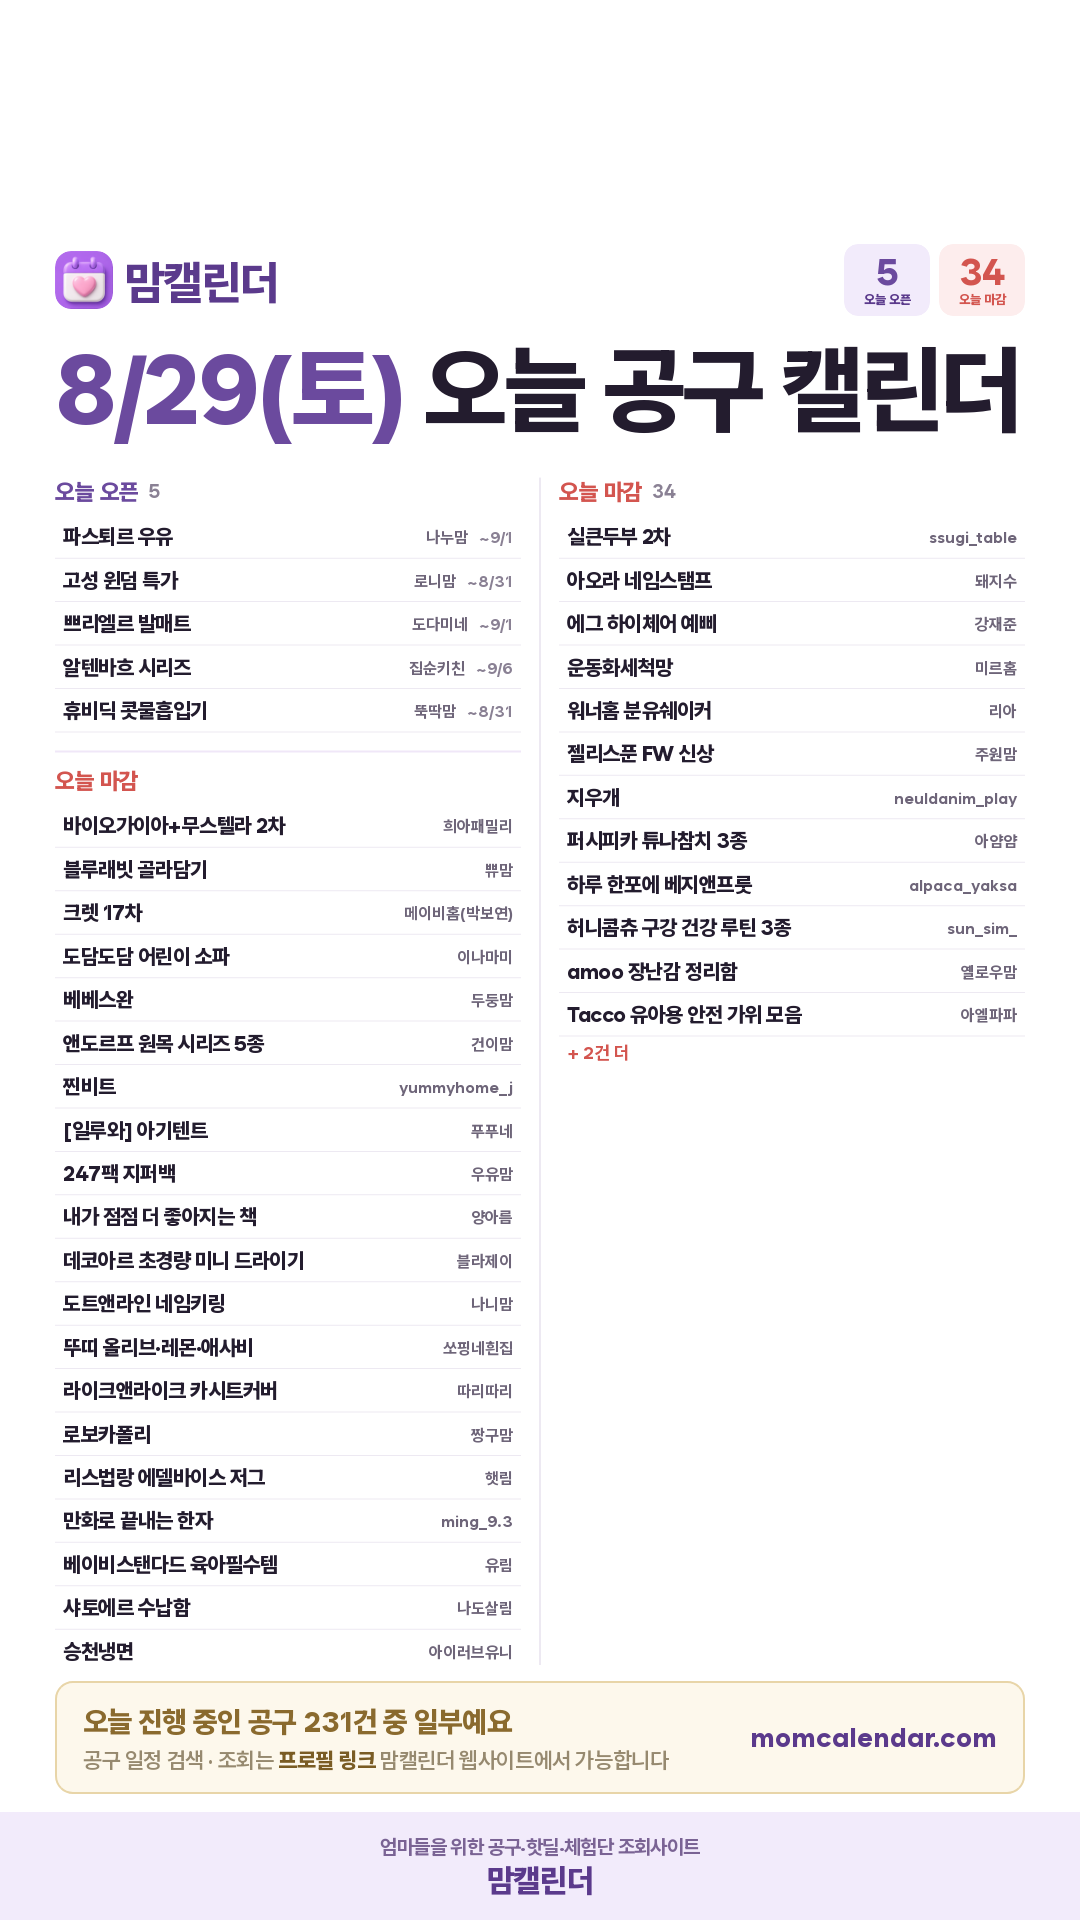
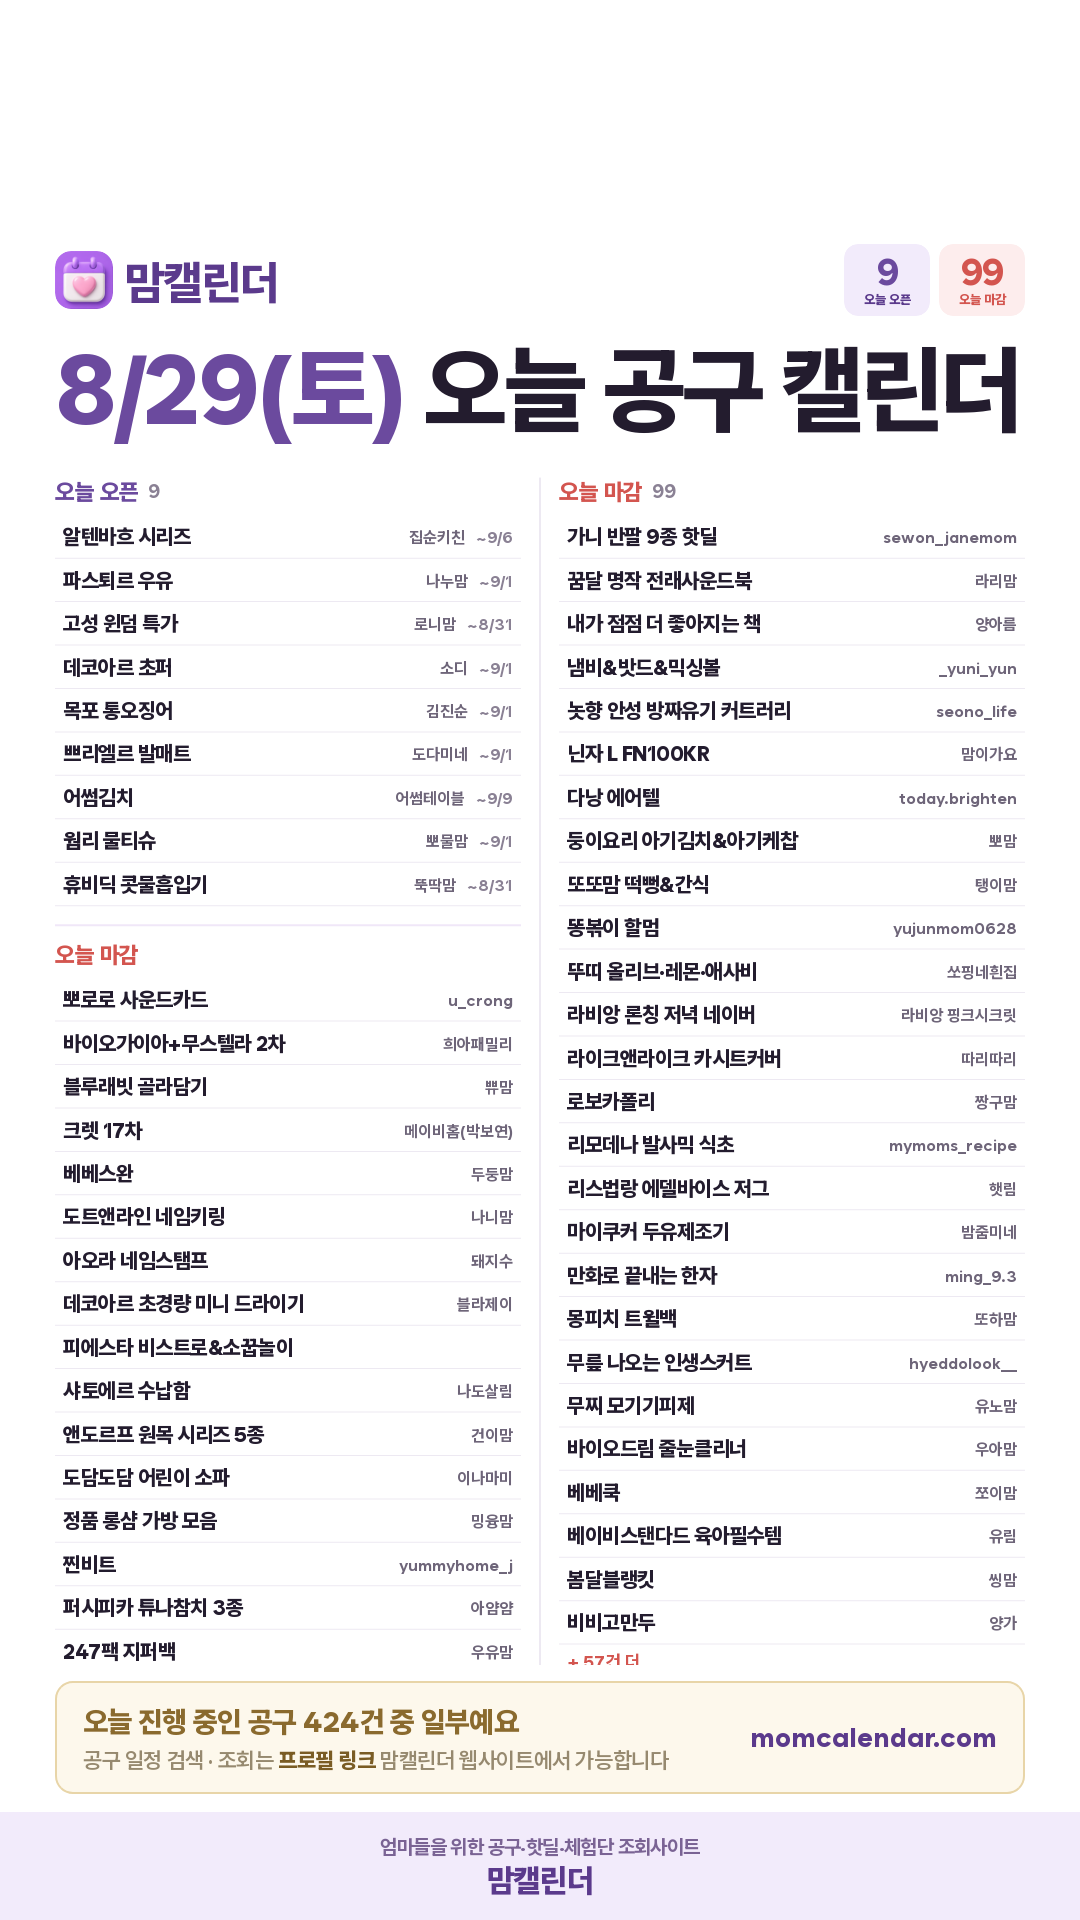
아침 인스타 카드 (2026-08-28)

diff --git a/daily/2026-08-29.html b/daily/2026-08-29.html
@@ -19,7 +19,7 @@ textarea{width:100%;height:260px;border:1px solid #E3DCEF;border-radius:10px;pad
 .todo p{font-size:12.5px;color:#6B6379;line-height:1.75;margin-top:6px}
 .todo a{color:#5B2E8C;font-weight:700}
 </style></head><body>
-<div class="hd"><div class="wrap"><h1>8월 29일(토) 인스타 카드</h1><p>오픈 5건 · 마감 34건</p></div></div>
+<div class="hd"><div class="wrap"><h1>8월 29일(토) 인스타 카드</h1><p>오픈 9건 · 마감 99건</p></div></div>
 <div class="wrap">
   
   <div class="card"><img src="./2026-08-29.png" alt="오늘 공구 카드"></div>
@@ -30,50 +30,95 @@ textarea{width:100%;height:260px;border:1px solid #E3DCEF;border-radius:10px;pad
 맘캘린더에서 공유드리는
 8월 29일(토) 오늘 공구 캘린더
 
-오픈 5건 · 마감 32건
+오픈 9건 · 마감 82건
 
 ━━━━━━━━━━━━━━
 
 🔓 오늘 오픈하는 공구
+· 알텐바흐 시리즈 — 집순키친 (~9/6)
 · 파스퇴르 우유 — 나누맘 (~9/1)
 · 고성 윈덤 특가 — 로니맘 (~8/31)
+· 데코아르 초퍼 — 소디 (~9/1)
+· 목포 통오징어 — 김진순 (~9/1)
 · 쁘리엘르 발매트 — 도다미네 (~9/1)
-· 알텐바흐 시리즈 — 집순키친 (~9/6)
+· 어썸김치 — 어썸테이블 (~9/9)
+· 웜리 물티슈 — 뽀물맘 (~9/1)
 · 휴비딕 콧물흡입기 — 뚝딱맘 (~8/31)
 
 ⏰ 오늘 마감하는 공구
+· 뽀로로 사운드카드 — u_crong
 · 바이오가이아+무스텔라 2차 — 희아패밀리
 · 블루래빗 골라담기 — 쀼맘
 · 크렛 17차 — 메이비홈(박보연)
-· 도담도담 어린이 소파 — 이나마미
 · 베베스완 — 두둥맘
-· 앤도르프 원목 시리즈 5종 — 건이맘
-· 찐비트 — yummyhome_j
-· [일루와] 아기텐트 — 푸푸네
-· 247팩 지퍼백 — 우유맘
-· 내가 점점 더 좋아지는 책 — 양아름
-· 데코아르 초경량 미니 드라이기 — 블라제이
 · 도트앤라인 네임스티커·의류네임스티커·네임키링 — 나니맘
+· 아오라 네임스탬프 — 돼지수
+· 데코아르 초경량 미니 드라이기 — 블라제이
+· 피에스타 우드 주방놀이 비스트로&amp;소꿉놀이 — 
+· 샤토에르 수납함 — 나도살림
+· 앤도르프 원목 시리즈 5종 — 건이맘
+· 도담도담 어린이 소파 — 이나마미
+· 정품 롱샴 가방 모음 — 밍융맘
+· 찐비트 — yummyhome_j
+· 퍼시피카 튜나참치 3종 — 아얌얌
+· 247팩 지퍼백 — 우유맘
+· 가니 반팔 9종 핫딜 — sewon_janemom
+· 꿈달 명작 전래사운드북 — 라리맘
+· 내가 점점 더 좋아지는 책 — 양아름
+· 냄비&amp;밧드&amp;믹싱볼 — _yuni_yun
+· 놋향 안성 방짜유기 커트러리 — seono_life
+· 닌자 크리스피 에어프라이어 L FN100KR (용기 사은품) — 맘이가요
+· 다낭 에어텔 — today.brighten
+· 둥이요리 아기김치&amp;아기케찹 — 뽀맘
+· 또또맘 떡뻥&amp;간식 — 탱이맘
+· 똥볶이 할멈 — yujunmom0628
 · 뚜띠 올리브·레몬·애사비 — 쏘핑네흰집
+· 라비앙 아이크림 론칭 저녁 네이버 — 라비앙 핑크시크릿
 · 라이크앤라이크 카시트커버 — 따리따리
 · 로보카폴리 — 짱구맘
+· 리모데나 프리미엄 발사믹 식초 — mymoms_recipe
 · 리스법랑 에델바이스 저그 — 햇림
+· 마이쿠커 두유제조기 — 밤줌미네
 · 만화로 끝내는 한자 — ming_9.3
+· 몽피치 트윌백 — 또하맘
+· 무릎 안 나오는 인생스커트 — hyeddolook__
+· 무찌 모기기피제 — 유노맘
+· 바이오드림 줄눈클리너 — 우아맘
+· 베베쿡 — 쪼이맘
 · 베이비스탠다드 육아필수템 — 유림
-· 샤토에르 수납함 — 나도살림
+· 봄달블랭킷 — 씽맘
+· 비비고만두 — 양가
+· 비타바움 — 초코홈
+· 빅토리아 슈즈 — 다겨미네
+· 솔트인다이아몬드 — goowolmanim
+· 슈퍼대디 — 츄아맘
+· 스토리텔 오디오북 — twins__ssmom
 · 승천냉면 — 아이러브유니
+· 실리콘 운동화 세탁망 — 르미뇽살림
 · 실큰두부 2차 — ssugi_table
-· 아오라 네임스탬프 — 돼지수
+· 아티바바 미술도구 세트 최저가 모음전 — 김소희aka채아맘
+· 앤도로프 교구 5종 — 럭키지후
 · 에그 하이체어 예삐 — 강재준
+· 오가닉스 포리지&amp;퓨레 — 해피엘
+· 오즈웨어 어그 — 위캔드홈
+· 올스텐 세탁바구니 2종 8차 — 리리홈
+· 요거쪽쪽 — 쩌스트맘
+· 우리동네장어 — 여울맘
+· 우아한김 — 도토맘
 · 운동화세척망 — 미르홈
 · 워너홈 분유쉐이커 — 리아
+· 위드잇 치킨스톡·우리쌀면 — 시니맘
+· 이키 추석빔 — 뮤즈마켓
 · 젤리스푼 FW 신상 — 주원맘
 · 지우개 — neuldanim_play
-· 퍼시피카 튜나참치 3종 — 아얌얌
-· 하루 야채와 과일을 한포에 베지앤프룻 — alpaca_yaksa
-· 허니콤츄 구강 건강 루틴 3종 — sun_sim_
-· amoo 장난감 정리함 — 옐로우맘
-· Tacco 유아용 안전 가위 모음 — 아엘파파
+· 착한목수 회전책장 — 루아홈
+· 청소 도구 정리함 — 오늘하루
+· 코끼리 고모부 — 유주맘(윤예진)
+· 크로커다일 크릭 퍼즐 모음전 — 쓰리빈즈
+· 토비앤몰리 — 햅삐이지
+· 페레파파 수제 버터치킨커리&amp;난 — jjuunn_mom
+· 프레벨롱 — love_you_jh
+…나머지 10건은 맘캘린더 사이트에서 보실 수 있어요
 
 ━━━━━━━━━━━━━━
 
@@ -86,12 +131,12 @@ textarea{width:100%;height:260px;border:1px solid #E3DCEF;border-radius:10px;pad
 ⚠ 공구 일정은 판매자 사정에 따라 변경되거나 조기 마감될 수 있어요. 구매 전에 해당 셀러 계정에서 한 번 더 확인해 주세요.
 
 #맘캘린더 #공구일정 #육아공구 #육아용품 #책육아 #공구오픈 #공구모음 #오늘의공구 #공구추천 #육아맘 #맘스타그램 #공동구매</textarea>
-    <div class="meta">1211자 / 2200자 · 오픈 5/5 · 마감 32/32</div>
+    <div class="meta">2177자 / 2200자 · 오픈 9/9 · 마감 72/82</div>
     <button class="btn btn2" onclick="cp('cap','캡션')">캡션 복사</button>
   </div>
   <div class="card">
     <div class="meta" style="margin:0 0 8px;font-weight:800;color:#5B2E8C">네이버 블로그용 (blog.naver.com/momcal) — 수정해서 쓰셔도 돼요</div>
-    <textarea id="btitle" style="height:54px">8월 29일(토) 공구일정 진행중인 곳 | 고성·쁘리엘르·파스퇴르·알텐바흐·휴비딕 공구 오픈</textarea>
+    <textarea id="btitle" style="height:54px">8월 29일(토) 8월 공구일정 찾는법 | 데코아르 초퍼·고성 윈덤·쁘리엘르·목포·어썸김치 공구 오픈</textarea>
     <button class="btn btn2" onclick="cp('btitle','블로그 제목')">블로그 제목 복사</button>
     <textarea id="bbody" style="margin-top:9px">맘캘린더 채널 한눈에
 · 전체 공구 일정 실시간 검색 → https://momcalendar.com
@@ -104,15 +149,14 @@ textarea{width:100%;height:260px;border:1px solid #E3DCEF;border-radius:10px;pad
 · 카톡 수다방 → https://open.kakao.com/o/gr2kJhCh
 ─────────────
 
-8월 29일(토), 오늘 새로 오픈하는 인스타 공구일정 5건을 카테고리별로 정리했어요.
-오늘 마감되는 공구도 34건 있으니 놓치지 마세요.
+8월 29일(토), 오늘 새로 오픈하는 인스타 공구일정 9건을 카테고리별로 정리했어요.
+오늘 마감되는 공구도 99건 있으니 놓치지 마세요.
 
-
-
-■ 오늘 오픈하는 공구 5건
+■ 오늘 오픈하는 공구 9건
 
 [육아]
 · 알텐바흐 시리즈 — 집순키친 (~9/6 마감)
+· 웜리 물티슈 — 뽀물맘 (~9/1 마감)
 · 휴비딕 콧물흡입기 — 뚝딱맘 (~8/31 마감)
 
 [리빙]
@@ -120,54 +164,124 @@ textarea{width:100%;height:260px;border:1px solid #E3DCEF;border-radius:10px;pad
 · 쁘리엘르 발매트 — 도다미네 (~9/1 마감)
 
 [식품]
+· 목포 통오징어 — 김진순 (~9/1 마감)
+· 어썸김치 — 어썸테이블 (~9/9 마감)
 · 파스퇴르 우유 — 나누맘 (~9/1 마감)
 
-■ 오늘 마감하는 공구 34건
-· [일루와] 아기텐트 — 푸푸네
+[가전]
+· 데코아르 초퍼 — 소디 (~9/1 마감)
+
+■ 오늘 마감하는 공구 99건
 · 247팩 지퍼백 — 우유맘
+· AEG인덕션 — 희원홈
 · amoo 장난감 정리함 — 옐로우맘
+· AMOO 투명정리함 — 믿쓰릴리맘
+· DVD플레이어 &amp; 영어 CD — 꿍맘
+· SNPE 체형도구 — 연지
+· soon 바스틀리 휴지&amp;키친타올 — 나리테이블
 · Tacco 유아용 안전 가위 모음 — 아엘파파
+· 가니 반팔 9종 핫딜 — sewon_janemom
+· 꿈달 명작 전래사운드북 — 라리맘
+· 낫또 네임스티커 — 나누맘
 · 내가 점점 더 좋아지는 책 — 양아름
+· 냄비&amp;밧드&amp;믹싱볼 — _yuni_yun
+· 놋향 안성 방짜유기 커트러리 — seono_life
+· 닌자 크리스피 에어프라이어 L FN100KR (용기 사은품) — 맘이가요
+· 다낭 에어텔 — today.brighten
 · 데코아르 초경량 미니 드라이기 — 블라제이
+· 도담도담 논슬립 폴더매트 층간소음방지 거실 아기 유아 놀이방 매트 — 이나마미
 · 도담도담 어린이 소파 — 이나마미
 · 도트앤라인 네임스티커·의류네임스티커·네임키링 — 나니맘
+· 둥이요리 아기김치&amp;아기케찹 — 뽀맘
+· 또또맘 떡뻥&amp;간식 — 탱이맘
+· 똥볶이 할멈 — yujunmom0628
 · 뚜띠 올리브·레몬·애사비 — 쏘핑네흰집
+· 라비앙 아이크림 론칭 저녁 네이버 — 라비앙 핑크시크릿
 · 라이크앤라이크 카시트커버 — 따리따리
 · 로보카폴리 — 짱구맘
+· 리모데나 프리미엄 발사믹 식초 — mymoms_recipe
 · 리스법랑 에델바이스 저그 — 햇림
+· 마이쿠커 두유제조기 — 밤줌미네
 · 만화로 끝내는 한자 — ming_9.3
+· 몽피치 트윌백 — 또하맘
+· 무릎 안 나오는 인생스커트 — hyeddolook__
+· 무찌 모기기피제 — 유노맘
+· 바비야기 김치&amp;장류&amp;반찬 — 
 · 바이오가이아+무스텔라 2차 — 희아패밀리
+· 바이오드림 줄눈클리너 — 우아맘
+· 발리 에어텔 — 제니져니
 · 베베스완 — 두둥맘
+· 베베쿡 — 쪼이맘
 · 베이비스탠다드 육아필수템 — 유림
+· 봄달블랭킷 — 씽맘
 · 블루래빗 골라담기 — 쀼맘
+· 블루래빗 비지북 — 
+· 비비고만두 — 양가
+· 비타바움 — 초코홈
+· 빅토리아 슈즈 — 다겨미네
+· 뽀로로 사운드카드 — @u_crong
 · 샤토에르 수납함 — 나도살림
+· 소야트 두유제조기 — 
+· 솔트인다이아몬드 — goowolmanim
+· 슈퍼대디 — 츄아맘
+· 스토리텔 오디오북 — twins__ssmom
 · 승천냉면 — 아이러브유니
+· 실리콘 운동화 세탁망 — 르미뇽살림
 · 실큰두부 2차 — ssugi_table
 · 아오라 네임스탬프 — 돼지수
+· 아티바바 미술도구 세트 최저가 모음전 — 김소희aka채아맘
+· 앤도로프 교구 5종 — 럭키지후
 · 앤도르프 원목 시리즈 5종 — 건이맘
+· 어린이과학동아 학습만화 — 양아름
 · 에그 하이체어 예삐 — 강재준
+· 오가닉스 포리지&amp;퓨레 — 해피엘
+· 오즈웨어 어그 — 위캔드홈
+· 올스텐 세탁바구니 2종 8차 — 리리홈
+· 요거쪽쪽 — 쩌스트맘
+· 우리동네장어 — 여울맘
+· 우아한김 — 도토맘
 · 운동화세척망 — 미르홈
 · 워너홈 분유쉐이커 — 리아
+· 위드잇 치킨스톡·우리쌀면 — 시니맘
+· 이지컷 네임스티커 — 율아맘
+· 이키 추석빔 — 뮤즈마켓
+· 정품 롱샴 가방 모음 — 밍융맘
 · 젤리스푼 FW 신상 — 주원맘
 · 주니 물병 모음전 베이직라인 — 주원맘
+· 주니 안전용품 3종 — 
+· 주니 전체컵 — 
 · 지우개 — neuldanim_play
 · 찐비트 — yummyhome_j
+· 착한목수 회전책장 — 루아홈
+· 청소 도구 정리함 — 오늘하루
+· 코끼리 고모부 — 유주맘(윤예진)
 · 크렛 17차 — 메이비홈(박보연)
+· 크로커다일 크릭 퍼즐 모음전 — 쓰리빈즈
+· 토비앤몰리 — 햅삐이지
 · 티니핑 모래놀이 — 건이맘
 · 퍼시피카 튜나참치 3종 — 아얌얌
+· 퍼시피카튜나 황다랑어참치 3종 — 
+· 페레파파 수제 버터치킨커리&amp;난 — jjuunn_mom
+· 프레벨롱 — love_you_jh
+· 프레벨롱 간식 모음전 — 밍빵
+· 피에스타 우드 주방놀이 비스트로&amp;소꿉놀이 — 
+· 핑크퐁 윈드핏 썸머 팬티기저귀 — 츄아맘
 · 하루 야채와 과일을 한포에 베지앤프룻 — alpaca_yaksa
+· 행복한 그림그리기 스케치북 세트 — 
+· 향유 참기름 — 묭마미
 · 허니콤츄 구강 건강 루틴 3종 — sun_sim_
+· 호주 UGG — seojiyeon._
 
-■ 오늘의 브랜드: 고성
-· 고성 공구는 인스타 셀러들이 기간을 정해 여는 공동구매예요. 최근에는 로니맘, rurus_yumi 님이 진행했어요.
+■ 오늘의 브랜드: 데코아르
+· 데코아르 공구는 인스타 셀러들이 기간을 정해 여는 공동구매예요. 최근에는 또마맘, 소디, 다미소미맘 님이 진행했어요.
 · 가격은 오픈일에 셀러 계정 공지로 공개돼요. 같은 제품이라도 셀러·구성에 따라 조금씩 달라서, 공지에서 확인하는 게 가장 정확해요.
-· 이번에 놓쳤다면 너무 아쉬워하지 마세요. 고성 공구는 보통 일정 간격을 두고 다시 열려요. 전체 일정은 여기서 → https://momcalendar.com
+· 이번에 놓쳤다면 너무 아쉬워하지 마세요. 데코아르 공구는 보통 일정 간격을 두고 다시 열려요. 전체 일정은 여기서 → https://momcalendar.com
 
 ※ 공구 일정은 판매자 사정에 따라 변경되거나 조기 마감될 수 있어요. 구매 전에 해당 셀러 계정에서 한 번 더 확인해 주세요.
 
-#공구일정 #인스타공구 #인스타공구일정 #공동구매 #오늘의공구 #육아공구 #공구모음 #고성공구 #쁘리엘르공구 #파스퇴르공구 #알텐바흐공구 #휴비딕공구</textarea>
+#공구일정 #인스타공구 #인스타공구일정 #공동구매 #오늘의공구 #육아공구 #육아템 #공구모음 #데코아르공구 #고성공구 #쁘리엘르공구 #목포공구 #어썸김치공구 #파스퇴르공구 #알텐바흐공구 #웜리공구</textarea>
     <button class="btn" onclick="cp('bbody','블로그 본문 전체')">블로그 본문 전체 복사 (태그 포함)</button>
-    <div class="meta">순서: 사진 저장 → 블로그 앱 글쓰기 → 제목 붙여넣기 → 본문 붙여넣기 → (여기에 카드 사진) 자리에 사진 → 발행. 끝의 #태그들은 자동으로 태그가 돼요</div>
+    <div class="meta">순서: 사진 저장 → 블로그 앱 글쓰기 → 제목 붙여넣기 → 본문 붙여넣기 → 본문 맨 위에 사진 추가 → 발행. 끝의 #태그들은 자동으로 태그가 돼요</div>
   </div>
 </div>
 <script>

diff --git a/daily/index.html b/daily/index.html
@@ -1,1 +1,1 @@
-<!DOCTYPE html><meta charset="UTF-8"><meta http-equiv="refresh" content="0;url=./2026-08-28.html">
+<!DOCTYPE html><meta charset="UTF-8"><meta http-equiv="refresh" content="0;url=./2026-08-29.html">
